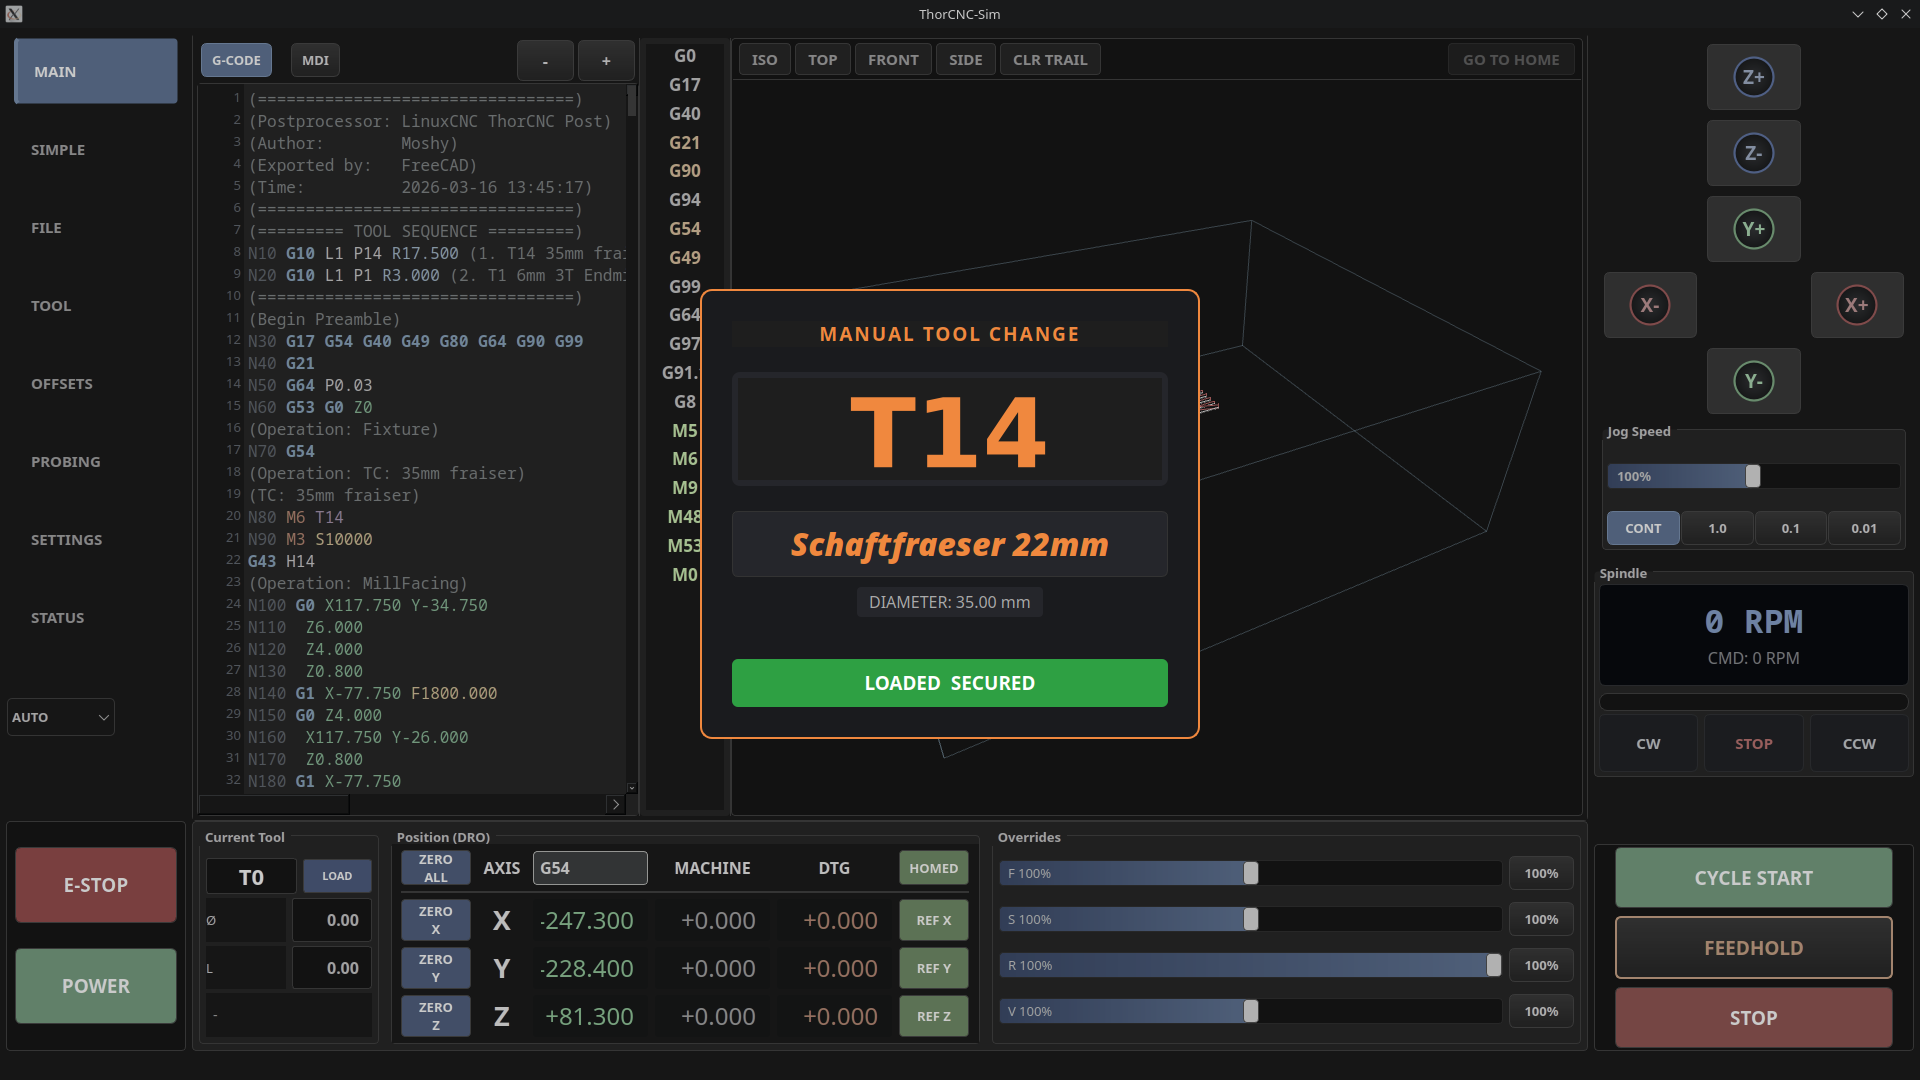
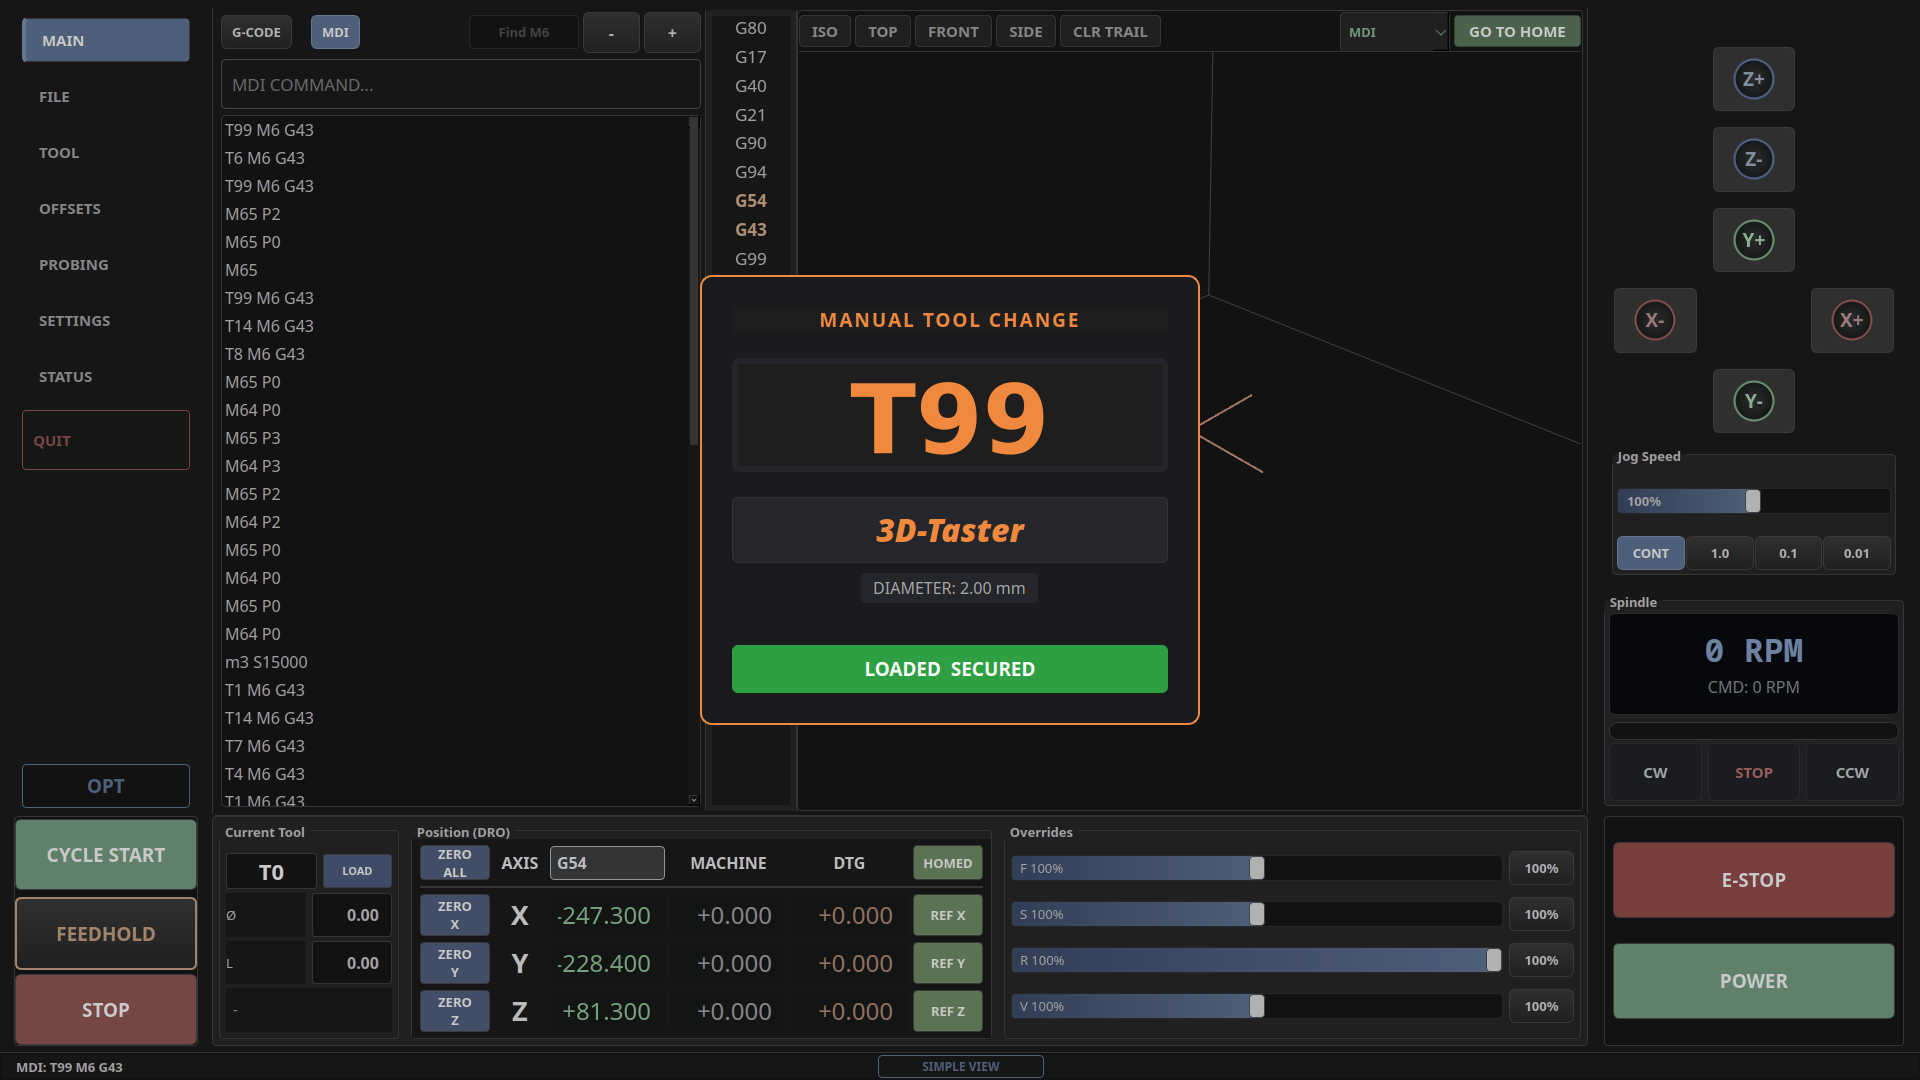
feat: add simple dashboard and probing interface with updated documentation and configuration

diff --git a/README.md b/README.md
@@ -17,7 +17,9 @@ A modern LinuxCNC graphical interface (VCP) for 3-axis milling machines, built w
 
 ---
 
-![ThorCNC Screenshot](thorcnc/images/screen_main.png)
+![ThorCNC Main Screen](thorcnc/images/screen_main.png)
+![Simple Dashboard](thorcnc/images/screen_simple.png)
+![Probing Tab](thorcnc/images/screen_probing.png)
 ![Tool Change Dialog](thorcnc/images/screen_toolchange.png)
 
 ---
@@ -44,6 +46,8 @@ A modern LinuxCNC graphical interface (VCP) for 3-axis milling machines, built w
 - **Splash Screen** — Support for custom industrial startup graphics via `INTRO_GRAPHIC` and `INTRO_TIME`.
 - **WCS Selector** — Quick switch between G54–G59.3 via dropdown in the DRO panel.
 - **Settings** — Four sub-tabs: Toolsetter, UI (live theme + language switching), Maschine, Erweitert.
+- **Simple View** — High-visibility minimalist dashboard for distance monitoring, featuring oversized DROs and status indicators.
+- **Probing Interface** — Dedicated, touch-optimized tab for automated workpiece probing and tool measurement.
 - **Themes** — Dark (default), light, dark_green, dark_orange — switchable at runtime.
 
 ---
